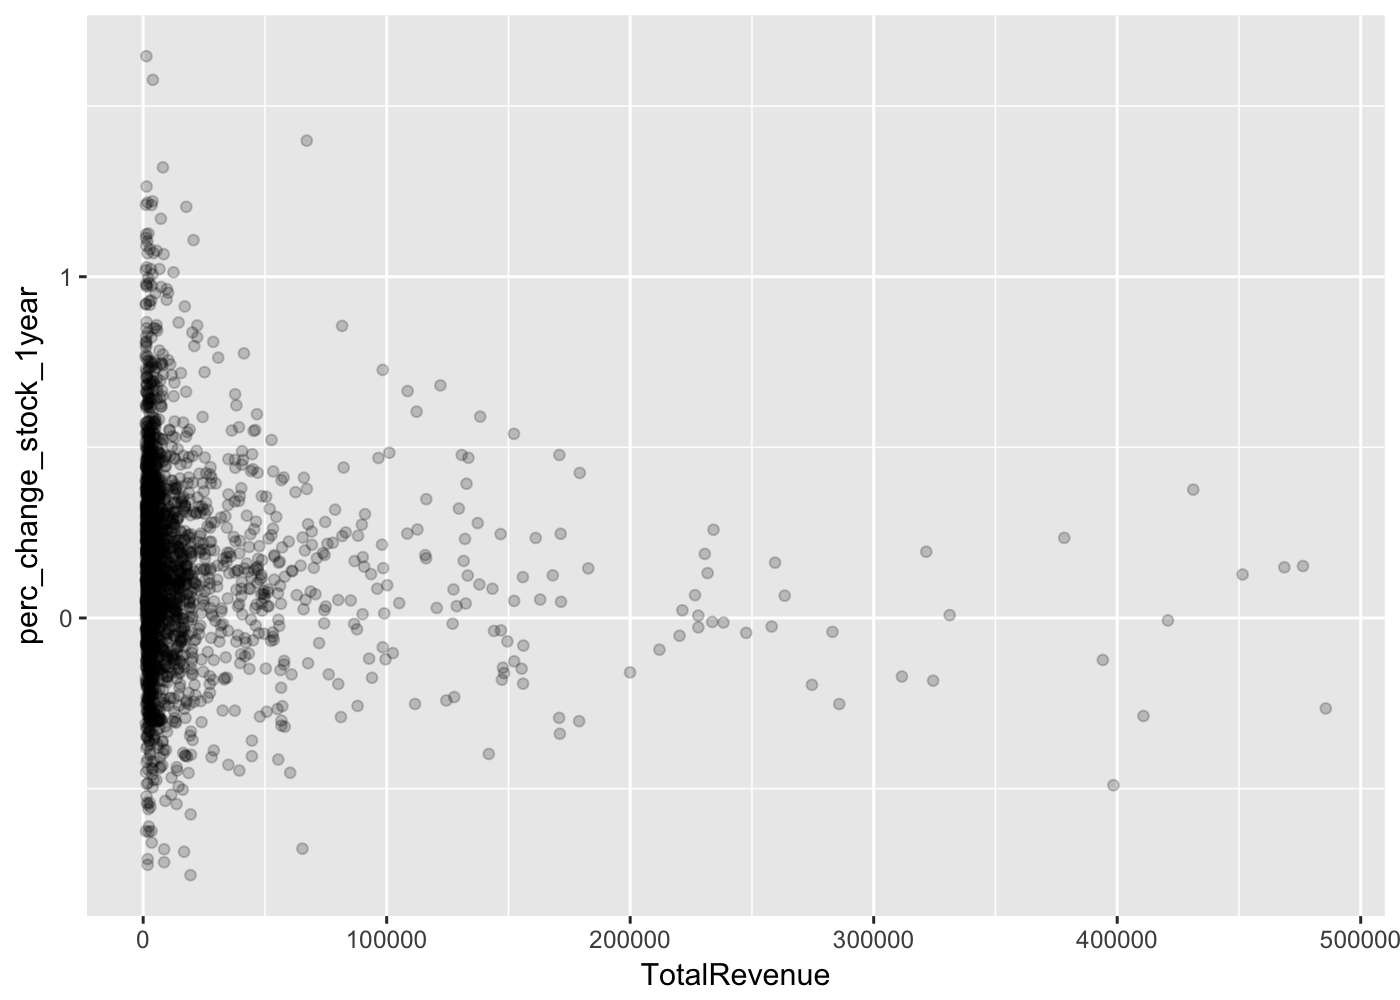
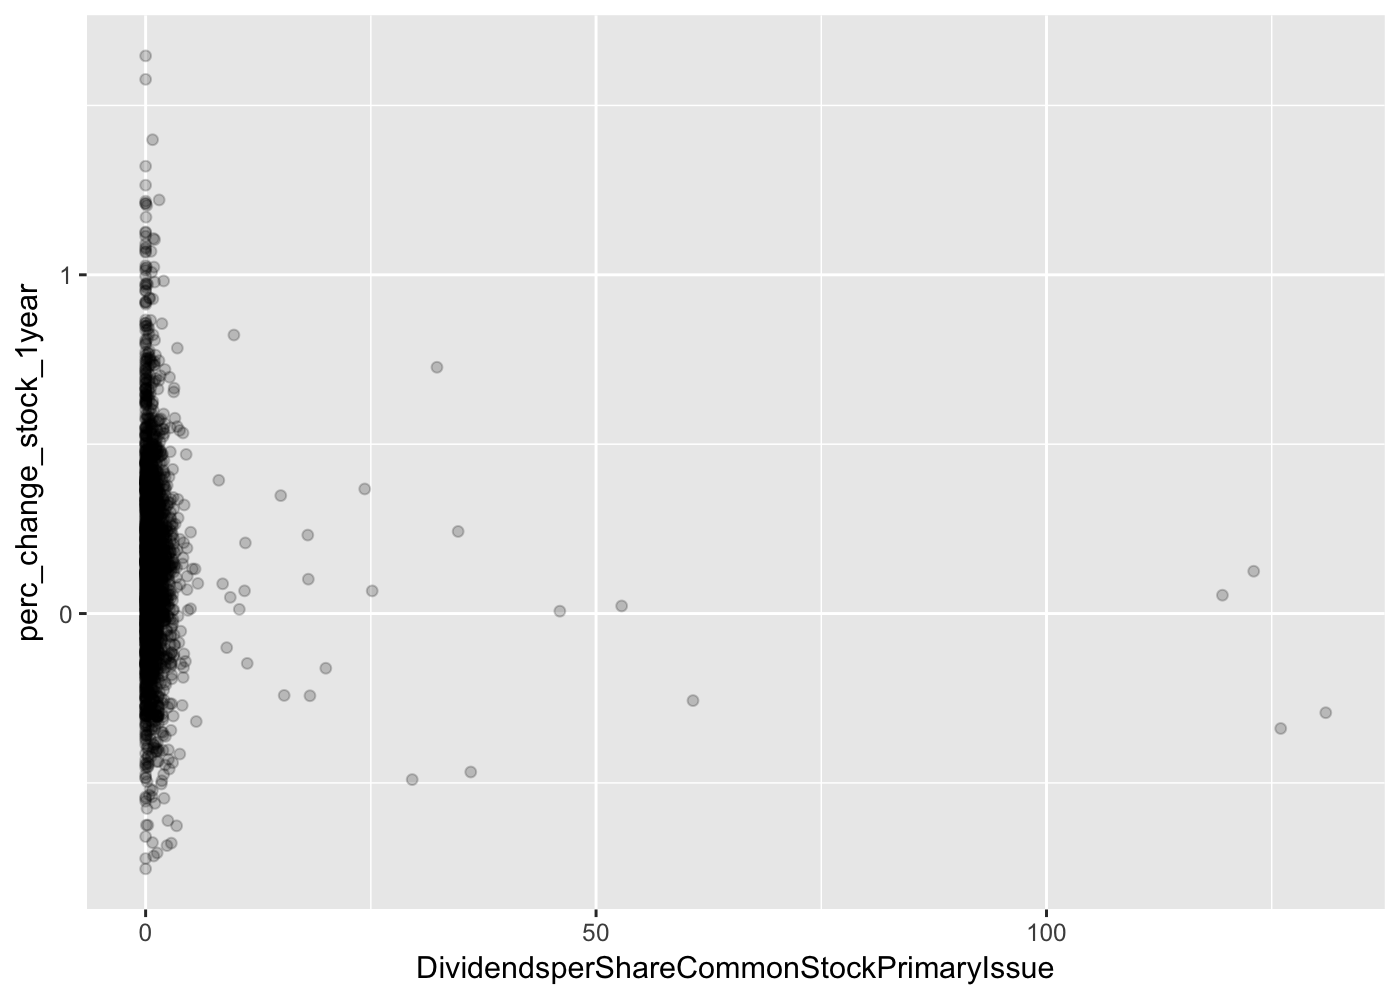
added correlation and MIC

diff --git a/r-stocks-research.md b/r-stocks-research.md
@@ -7,6 +7,7 @@
     -   [Data Summary:](#data-summary)
 -   [Exploring Data](#exploring-data)
     -   [Collinearity](#collinearity)
+    -   [Correlation, Maximal Information Coefficient](#correlation-maximal-information-coefficient)
 -   [Sandbox / TODO](#sandbox-todo)
 -   [Assumptions, Considerations, and Notes](#assumptions-considerations-and-notes)
 
@@ -94,12 +95,12 @@ head(acwi_closing)
     ## # A tibble: 6 × 6
     ##         date close close_lag_year close_moving_ave close_lag_year_moving_ave perc_change_1year
     ##       <date> <dbl>          <dbl>            <dbl>                     <dbl>             <dbl>
-    ## 1 2017-01-23 60.50             NA         59.79140                        NA                NA
-    ## 2 2017-01-22 60.49             NA         59.73846                        NA                NA
-    ## 3 2017-01-21 60.49             NA         59.68572                        NA                NA
-    ## 4 2017-01-20 60.49             NA         59.63297                        NA                NA
-    ## 5 2017-01-19 60.24             NA         59.57825                        NA                NA
-    ## 6 2017-01-18 60.41             NA         59.53408                        NA                NA
+    ## 1 2017-01-24 60.83             NA         59.84302                        NA                NA
+    ## 2 2017-01-23 60.50             NA         59.79140                        NA                NA
+    ## 3 2017-01-22 60.49             NA         59.73846                        NA                NA
+    ## 4 2017-01-21 60.49             NA         59.68572                        NA                NA
+    ## 5 2017-01-20 60.49             NA         59.63297                        NA                NA
+    ## 6 2017-01-19 60.24             NA         59.57825                        NA                NA
 
 ``` r
 tail(acwi_closing)
@@ -503,35 +504,50 @@ kable(get_correlations(df_stocks_full, corr_threshold = 0.7, p_value_threshold =
 >
 > Rather than removing all of these columns, I will keep them in for now (with the exception of Revenue which will be removed (TotalRevenue will remain)), and extract the columns I want to work with for particular models.
 
+Correlation, Maximal Information Coefficient
+--------------------------------------------
+
+-   The following graph shows correlations and the Maximal Information Coefficient (second column) between many of the potential predictor variables and `perc_change_stock_1year` (the change in stock price from the time the financial statement was released to 1 year later (using moving average to account for daily fluctuations and random noise).
+    -   it is faceted into 3 groups (`Absolute`, `Common Size`, and `Ratio`).
+    -   `Absolute` are raw numbers from the financial statements (e.g. Total Revenue)
+    -   `Common Size` are ratios expressed as a percentage of Sales, Assets, etc., depending on the particular financial statement (income statement, balance sheet, cash flow)
+    -   `Ratio` are common ratios used to access the health of the company (e.g. Profit Margin, Quick Ratio, etc.)
+-   As you can see, the correlations are lower than expected, and a lot are negative (left of vertical reference line). Personally, I expected some of the financial ratios in particular to be higher correlated with the change of stock price (i.e. higher financial ratios mean healthier companies which means higher gains in stock price).
+-   As a result, I used the Maximal Information Coefficient (MIC) which, according to this [blog post](http://menugget.blogspot.de/2011/12/maximal-information-coefficient-mic.html) the MIC measurement is 'able to equally describe the correlation between paired variables regardless of linear or nonlinear relationship'.
+-   Interestingly, there is not much relationship between the correlation measure and MIC, and from looking ranking of both (not shown; only ranked by MIC in graph), it appears MIC is a better measure.
+-   Also, variables that are `absolute` values tend to have lower correlations (and more negative correlations) then `common size` and `ratio` variables, suggesting some/most absolute ratios should be ignored in linear regression models.
+
+> Overall, the low/negative correlations suggests that my original plan of using a form of linear regression will probably not result in any significant results.
+
+    ## Warning in inner_join_impl(x, y, by$x, by$y, suffix$x, suffix$y): joining factor and character vector, coercing into character vector
+
+<img src="r-stocks-research_files/figure-markdown_github/maximal_information_coefficient-1.png" width="750px" />
+
 ------------------------------------------------------------------------
 
 Sandbox / TODO
 ==============
 
 ``` r
-x = df_stocks_full %>% select(-date, -symbol, -perc_change_stock_1year, -contains('ratioh_')) # get rid of `ratioh` because we only want numeric columns
-all(complete.cases(x))
-```
-
-    ## [1] TRUE
-
-``` r
-y = df_stocks_full %>% select(perc_change_stock_1year)
-all(complete.cases(y))
-```
-
-    ## [1] TRUE
-
-``` r
-correlations_with_perc_change <- cor(x, y=y, use='complete.obs')
-temp = as.data.frame(correlations_with_perc_change) %>% mutate(variable=rownames(correlations_with_perc_change), c_rank = dense_rank(desc(perc_change_stock_1year))) %>% arrange(c_rank) %>% select(variable, perc_change_stock_1year, c_rank)
-
-
-ggplot(data = df_stocks_full, mapping = aes(x = TotalRevenue, y = perc_change_stock_1year)) +
+ggplot(data = df_stocks_full, mapping = aes(x = DividendsperShareCommonStockPrimaryIssue, y = perc_change_stock_1year)) +
     geom_point(alpha=0.2) # alpha avoids overfiting
 ```
 
 <img src="r-stocks-research_files/figure-markdown_github/sandbox-1.png" width="750px" />
+
+``` r
+ggplot(data = df_stocks_full, mapping = aes(x = ratios_quick_ratio, y = perc_change_stock_1year)) +
+    geom_point(alpha=0.2) # alpha avoids overfiting
+```
+
+<img src="r-stocks-research_files/figure-markdown_github/sandbox-2.png" width="750px" />
+
+``` r
+ggplot(data = df_stocks_full, mapping = aes(x = TotalRevenue, y = perc_change_stock_1year)) +
+    geom_point(alpha=0.2) # alpha avoids overfiting
+```
+
+<img src="r-stocks-research_files/figure-markdown_github/sandbox-3.png" width="750px" />
 
 ``` r
 # makes sense that revenue isn't necessarily correlated with perc_change_stock_1year becuase revenue doesn't guarantee success or profit
@@ -540,24 +556,23 @@ ggplot(data = df_stocks_full) +
     geom_hex(mapping = aes(x = TotalRevenue, y = perc_change_stock_1year))
 ```
 
-<img src="r-stocks-research_files/figure-markdown_github/sandbox-2.png" width="750px" />
+<img src="r-stocks-research_files/figure-markdown_github/sandbox-4.png" width="750px" />
 
 ``` r
 ggplot(data = df_stocks_full, aes(perc_change_stock_1year)) +
     geom_freqpoly(bins = 15)
 ```
 
-<img src="r-stocks-research_files/figure-markdown_github/sandbox-3.png" width="750px" />
+<img src="r-stocks-research_files/figure-markdown_github/sandbox-5.png" width="750px" />
 
 ``` r
 # perhaps clustering data will help, since 
-
 
 ggplot(data = df_stocks_full, mapping = aes(x = net_profit_margin, y = perc_change_stock_1year)) +
     geom_point(alpha=0.2) # alpha avoids overfiting
 ```
 
-<img src="r-stocks-research_files/figure-markdown_github/sandbox-4.png" width="750px" />
+<img src="r-stocks-research_files/figure-markdown_github/sandbox-6.png" width="750px" />
 
 ``` r
 # makes sense that revenue isn't necessarily correlated with perc_change_stock_1year becuase revenue doesn't guarantee success or profit
@@ -566,130 +581,20 @@ ggplot(data = df_stocks_full) +
     geom_hex(mapping = aes(x = net_profit_margin, y = perc_change_stock_1year))
 ```
 
-<img src="r-stocks-research_files/figure-markdown_github/sandbox-5.png" width="750px" />
+<img src="r-stocks-research_files/figure-markdown_github/sandbox-7.png" width="750px" />
 
 ``` r
 ggplot(data = df_stocks_full, aes(net_profit_margin)) +
     geom_freqpoly(bins = 15)
 ```
 
-<img src="r-stocks-research_files/figure-markdown_github/sandbox-6.png" width="750px" />
+<img src="r-stocks-research_files/figure-markdown_github/sandbox-8.png" width="750px" />
 
 ``` r
 # interesting that net profit margin doesn't appear to have any significance in determining perc_change_stock_1year. I would have expected a somewhat linear relationship
 
-
 # temp = df_stocks_full %>% filter(net_profit_margin >= 0.5)
 # # net profit margin is right skewed, there are `r nrow(temp)` stocks that have net profit margin >= 50%, although after review stock information, they look like legitimate values/symbols.
-
-
-# library(minerva)
-# minerva_results <- mine(x, y=y$perc_change_stock_1year, alpha=0.7)
-# res <- data.frame(MIC = c(minerva_results$MIC))
-# rownames(res) <- rownames(minerva_results$MIC)
-# res$MIC_Rank <- nrow(res) - rank(res$MIC, ties.method="first") + 1
-# res$Pearson <- P
-# res$Pearson_Rank <- nrow(res) - rank(abs(res$Pearson), ties.method="first") + 1
-# res <- res[order(res$MIC_Rank),]
-# res
-# res$variable = rownames(res)
-# asdf = merge(res, temp)
-# rows_original = nrow(x) # 7835
-
-
-
-# ##########
-#   summary(df_stocks_full$TotalRevenue)
-    
-#   x = df_stocks_full %>% select(-date, -symbol, -contains('ratioh_')) # get rid of `ratioh` because we only want numeric columns
-#   column_names = colnames(x)
-#   #walk(column_names[1], ~ ggplot(x, aes(x= x[, column_names], y = y$perc_change_stock_1year)))
-#   column_data = map(column_names, ~ x[, .] )
-#   create_percentile_matrix(column_data, row_names = column_names)
-#     walk(column_names, ~  {
-#         plotgg = ggplot(x, aes(x=x[, .], y=perc_change_stock_1year, col = TotalRevenue > 5000)) + geom_point() + labs(x = .) # 5000 == 5B
-#         ggsave(filename = paste0('./data/perc_change_plots/', ., '.png'), plot=plotgg)
-#     })
-# #NOTE was going to see if there was a pattern between 'Large' and 'Small' companies (based on > 5B), in which case I would bucket into different groups and perhaps learning algorithms, but doesn't seem to be
-
-
-#   outlier_indexes = map(column_names, ~ which_outliers(x[, .]))
-#   outlier_indexes = sort(unique(unlist(outlier_indexes)))
-#   length(outlier_indexes)
-
-
-#   # Total Revenue over 600B seems off
-#   create_percentile_matrix(list(temp_x$TotalRevenue, temp_x$cs_net_income, y$perc_change_stock_1year), row_names = c('revenue', 'net income', 'perc_change_stock_1year'))
-#   ggplot(temp_x, aes(x=cs_net_income, y=perc_change_stock_1year)) + geom_point()
-
-
-#   boxplot(dat$TotalRevenue)
-#   summary(dat$perc_change_stock_1year)
-
-
-#TODO: NOTE: WHEN SEPERATING TRAINING VS TEST DATA, SEPRATE BASED ON YEAR (TRAINING BEFORE 2015-01-02, AND TEST AFTER 2015) We DON'T WANT TO ANALYZE IN THE SAME YEAR WE TESTED BECAUSE WE WON'T DO THIS IN REAL LIFE, OR WHEN WE SIMULATE FUTURE GAINS VIA QUANTMOD
-
-
-
-#   #######################################################
-#   # saved processed data to disk
-#   #######################################################
-#   log.NOTE(h2('Post Processing Summary'))
-#   log.NOTE(codebc(summary(df_stocks_full))) # before we change, let's pring out summary of data
-#   log.WARNING('WARNING: IN THE ABOVE SUMMARY, CHECK FOR `NA`s AND `Inf`s (NAs in perc_change_stock_1year is normal for quarterly data, will filter out later)')
-#   stock_file_name = './data/df_stocks_full.RDS'
-#   log.INFO(paste0('saving stock financial data to `', stock_file_name, '`'))
-#   saveRDS(df_stocks_full, file=stock_file_name)
-
-#   #######################################################
-#   # create dataset for trends
-#   #######################################################
-#   log.INFO('building trend dataset...')
-#   unique_cleaned_stocks = unique(df_stocks_full$symbol)
-#   df_stocks_trend = build_stock_trend_dataset(df_stocks_full=df_stocks_full, unique_cleaned_stocks=unique_cleaned_stocks)
-#   stock_file_name = './data/df_stocks_trend.RDS'
-#   log.INFO(paste0('saving stock trend data to `', stock_file_name, '`'))
-#   saveRDS(df_stocks_trend, file=stock_file_name)
-
-#   log.NOTE(paste0('`', nrow(df_stocks_trend), '` rows in `df_stocks_trend` dataset'))
-#   log.NOTE(paste0('`', length(unique(df_stocks_trend$symbol)), '` unique stocks in `df_stocks_trend` dataset (should be the same as the previous number'))
-#   log.NOTE(h2('Stock-Trend-Dataset Summary'))
-#   log.NOTE(codebc(summary(df_stocks_trend))) # before we change, let's pring out summary of data
-#   log.NOTE(h2('Stock-Trend-Dataset Date Summary'))
-#   summary(df_stocks_trend$date)
-
-#   #######################################################
-#   # Let's see what the distributions of the target variables are like (i.e. of the stocks we are analyzing, how many outperform awci comparison index, how many underperform)
-#   # since the comparison index is supposed to track the overall world stock market, and if the stocks we are analyzing are representative of the overall world market, we would expect a normal distirbution
-#   #######################################################
-#   log.NOTE(table_matrix(a_matrix=create_percentile_matrix(list_of_datasets=list(df_stocks_full$perc_change_stock_1year, df_stocks_trend$perc_change_stock_1year),
-#                               row_names=c('df_stocks_full$perc_change_stock_1year', 'df_stocks_trend$perc_change_stock_1year'),
-#                               percentiles=c(0, 0.025, 0.05, 0.10, 0.25, 0.40, 0.50, 0.60, 0.75, 0.90, 0.95, 0.975, 1)),
-#                       title='Distribution of Target Variable', row_header='dataset & target variable', title_format=h2))
-#   log.NOTE(bold('The target variable shows the stock performance compared with the awci comparison index. The distribution appears to be normal. It appears that the datasets have about half of the target varaibles above zero (i.e. target beats awsi comparison index) and about half below the zero. This is a good sign.'))
-#   frequency_sequence = seq(from=-1, to=1, length.out = 100)
-#   full_distro_1year = cut(df_stocks_full$perc_change_stock_1year, breaks=frequency_sequence)
-#   trend_distro_1year = cut(df_stocks_trend$perc_change_stock_1year, breaks=frequency_sequence)
-#   log.NOTE(image(text='full_distro_90', url='full_distro_90.png'))
-#   log.NOTE(h3('Financial Dataset Distribution of perc_change_stock_1year'))
-#   png('./results/full_distro_1year.png')
-#   plot(full_distro_1year)
-#   dev.off()
-#   log.NOTE(image(text='full_distro_1year', url='full_distro_1year.png'))
-#   log.NOTE(h3('Trend Dataset Distribution of perc_change_stock_1year'))
-#   png('./results/trend_distro_1year.png')
-#   plot(trend_distro_1year)
-#   dev.off()
-#   log.NOTE(image(text='trend_distro_1year', url='trend_distro_1year.png'))
-#   log.NOTE(bold('It is actually quite surprising/good that the distribution looks this normal'))
-
-#   #######################################################
-#   # print basic info
-#   #######################################################
-#   log.NOTE(paste0('Number of Unique Stock Symbols Used: `', length(unique_cleaned_stocks), '`'))
-#   log.NOTE(paste0('Number of Original Stock Symbols: `', length(all_symbols), '`'))
-#   log.NOTE(paste0('Number of total financial statements (quarterly and annual): `', nrow(df_stocks_full), '`'))
-#   log.NOTE('NOTE: all numbers, regardless of source (yahoo/google), look to be in millions. Confirmed over multiple stocks/sources (b
 ```
 
 ------------------------------------------------------------------------
